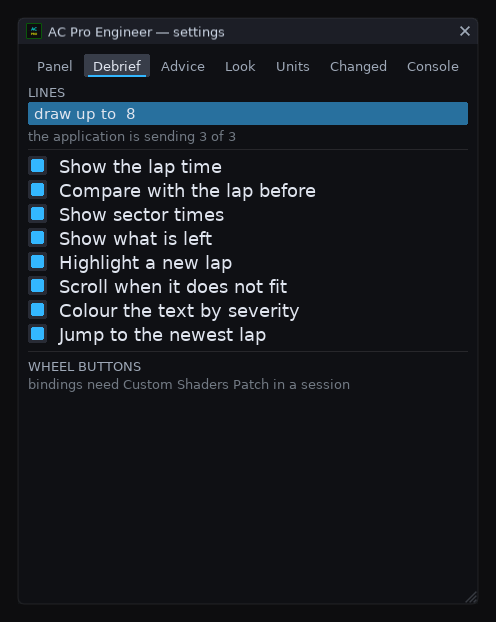
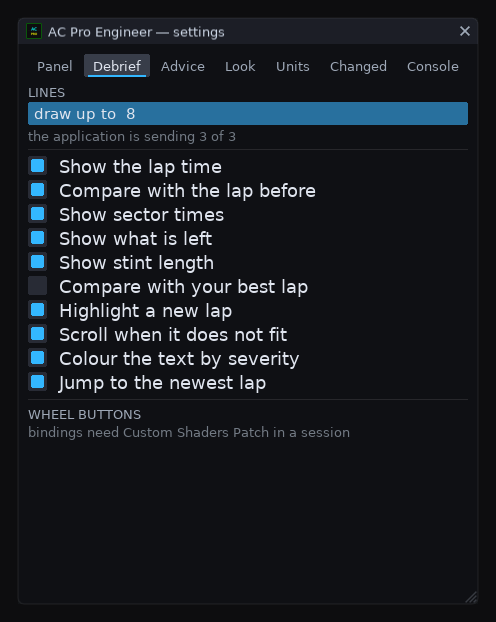
feat(panel): compare against your best, stint length, and the last English words
The rest of the 0.3.6 list.

- **A choice of reference.** The debrief compared against the lap before; people
  race their own best. Both are there now, and the driver's own best lap is
  named as such rather than shown as "+0.000", which reads as a comparison that
  failed.
- **Stint length**, under the debrief. A different question from the lap count:
  someone deciding whether to box wants to know how old the tyres are, not how
  far into the race it is. One more `u32` on the frame — 2484 bytes.
- **`Wear:`, `T:` and `B:` go through the translator.** They were English in
  both languages for eleven releases, and they sit under every corner of the
  panel where they are hardest to miss. `format.lua` requires `i18n` for it,
  which is with the grain of the layering rather than against it.

A setting for each. Every portrait regenerated, so the pictures in the README
show what the panel draws today.

Changed region(s): [[0.0605, 0.3971, 0.6956, 0.7026], [0.0605, 0.4277, 0.0907, 0.4887]]

diff --git a/core/src/overlay/frame.rs b/core/src/overlay/frame.rs
@@ -227,6 +227,11 @@ pub struct OverlayFrame {
     /// measured yet — a stint has to be under way before a rate exists, and
     /// zero is a real answer meaning the tyre is finished.
     pub tyre_laps_remaining: [f32; 4],
+
+    /// Laps completed on this set of tyres, since the last time the car left
+    /// the pits. Not the same as the lap count: a driver wants to know how old
+    /// the tyres are, not how far into the race it is.
+    pub stint_laps: u32,
 }
 
 /// One finished lap and what the engineer made of it, ready for the frame.
@@ -336,6 +341,7 @@ impl OverlayFrame {
             tyre_temp_inner_c: [0.0; 4],
             tyre_temp_outer_c: [0.0; 4],
             tyre_laps_remaining: [-1.0; 4],
+            stint_laps: 0,
         }
     }
 
@@ -644,6 +650,7 @@ const FIELDS: &[(&str, &str)] = &[
         "tyre_laps_remaining",
         "ac.StructItem.array(ac.StructItem.float(), 4)",
     ),
+    ("stint_laps", "ac.StructItem.uint32()"),
 ];
 
 /// How many bytes an `ac.StructItem` declaration occupies.
@@ -725,7 +732,7 @@ mod tests {
         // Sector times per lap, the session's best sectors, the two tyre
         // surface temperatures the middle one was always missing, and the wear
         // projection.
-        let alongside = (DEBRIEF_LAPS * SECTORS + SECTORS) * 4 + (4 + 4 + 4) * 4;
+        let alongside = (DEBRIEF_LAPS * SECTORS + SECTORS) * 4 + (4 + 4 + 4) * 4 + 4;
         assert_eq!(
             size_of::<OverlayFrame>(),
             scalars
@@ -904,7 +911,7 @@ mod tests {
         // ... and five more arrays alongside the debrief.
         assert_eq!(
             FIELDS.len(),
-            22 + 4 + MESSAGE_SLOTS + 1 + 1 + 1 + 4 + DEBRIEF_SLOTS + 5
+            22 + 4 + MESSAGE_SLOTS + 1 + 1 + 1 + 4 + DEBRIEF_SLOTS + 5 + 1
         );
 
         // The declared types have to add up to the struct's actual size, which

diff --git a/shm-bridge/src/main.rs b/shm-bridge/src/main.rs
@@ -55,7 +55,7 @@ const OVERLAY_FILE: &str = "AcTools.CSP.Limited.ACPE.v1";
 /// telemetry crate to learn one number would be a poor trade. The mapping only
 /// has to be at least struct-sized, so this is checked against the real value
 /// by a test in ac_core rather than kept in step by hand.
-const OVERLAY_FILE_SIZE: usize = 2480;
+const OVERLAY_FILE_SIZE: usize = 2484;
 
 /// Shape of the note this bridge leaves behind — see [`BRIDGE_INFO_FILE`].
 ///

diff --git a/tui/src/lib.rs b/tui/src/lib.rs
@@ -1364,6 +1364,7 @@ impl AppState {
         frame.tyre_temp_inner_c = phys.tyre_temp_i;
         frame.tyre_temp_outer_c = phys.tyre_temp_o;
         frame.tyre_laps_remaining = self.engineer.stats.tyre_laps_remaining;
+        frame.stint_laps = self.engineer.stats.stint_laps.max(0) as u32;
 
         writer.publish(&frame);
     }

diff --git a/CHANGELOG.md b/CHANGELOG.md
@@ -14,7 +14,7 @@ through and a wheel button to page with.
 
 ### ⚠ Breaking
 
-- **Overlay frame version 6**, 712 bytes to 2480. On Linux this means
+- **Overlay frame version 6**, 712 bytes to 2484. On Linux this means
   **`shm-bridge.exe` has to be updated again**; **[B]** on the launcher's
   overlay card does it. Everything new is appended, so no existing offset moved
   — a panel or bridge one version behind misreads nothing, it simply does not
@@ -52,6 +52,12 @@ through and a wheel button to page with.
   tyre is; these three say whether it is leaning the right way, which is the
   reading the camber advice is made of. Coloured by the spread, not the heat: a
   tyre can be in its window and still riding on one edge. Off by default.
+- **Compare against your best lap, not just the one before.** People race their
+  own best; the lap before is what says whether the last change helped. Both are
+  there, and the driver's own best lap says so rather than showing "+0.000".
+- **How long you have been on this set of tyres**, under the debrief. Not the
+  lap count — a driver deciding whether to box wants to know how old the tyres
+  are, not how far into the race it is.
 - **The debrief window scrolls.** Eight lines plus a header plus sectors do not
   fit a window sized for four, and the overflow used to be cut off at the bottom
   edge with nothing to say it had been.
@@ -71,6 +77,17 @@ through and a wheel button to page with.
   printed "load: OK" without looking at the result, so the next line failed with
   a bare "attempt to call a nil value" and no hint of where. It checks the load
   and that the panel defined an update function.
+- **The terminal and the panel gave different advice about the same lap.** The
+  post-stint column computed its own verdicts — three hundred lines where the
+  analysis and the spans that drew it were the same code — while the panel
+  rendered the shared function. They had already drifted: this one took the
+  magnitude of the tyre temperature spread and threw the sign away, so a car
+  short of camber was told to take camber out while the panel said to add it.
+  One implementation now, 311 lines lighter, and a clean lap says so instead of
+  leaving an empty column that reads as "the analysis did not run".
+- **`Wear:`, `T:` and `B:` were English in both languages** — the only words in
+  the panel that were, sitting under every corner where they are hardest to
+  miss.
 - **`README.txt` described an archive that no longer exists** — it was written
   for a Windows-only bundle while the published one holds both builds and the
   bridge.
